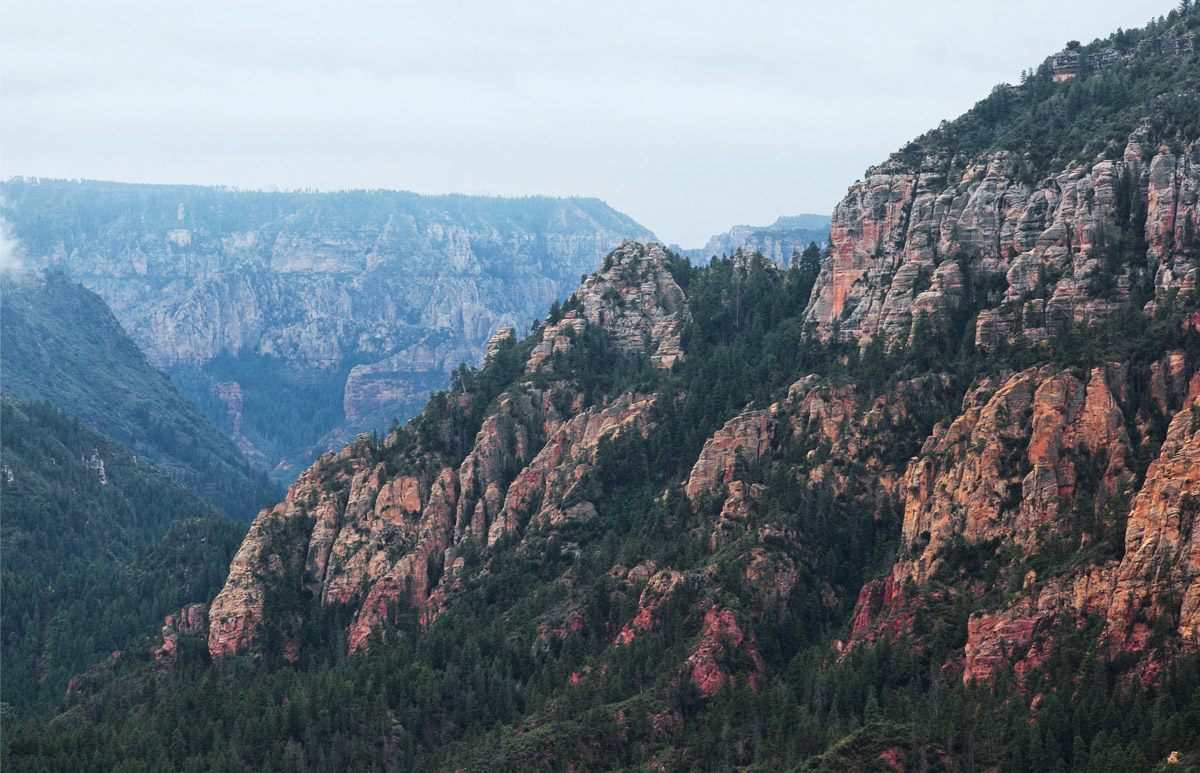
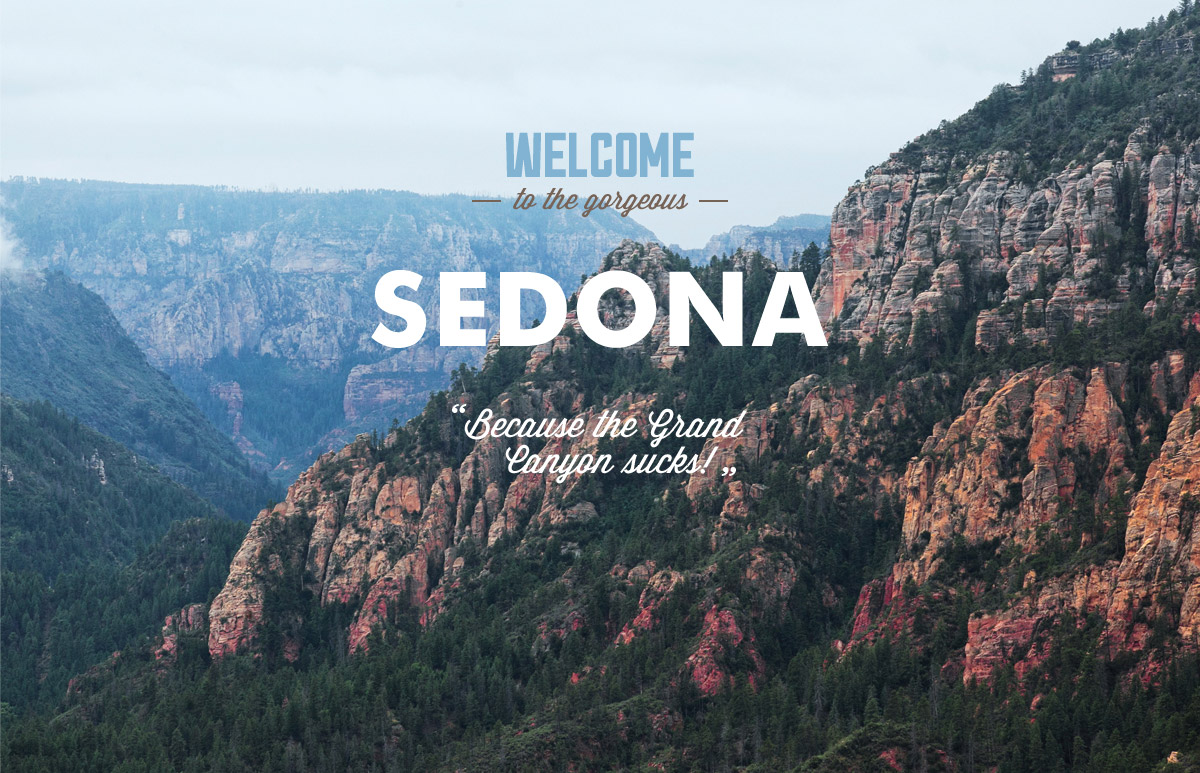
Сетки
Начал офрмлять главную

Changed region(s): [[0.3083, 0.3415, 0.7092, 0.4657], [0.4008, 0.1552, 0.5858, 0.2794], [0.37, 0.5278, 0.6167, 0.621]]

diff --git a/index.html b/index.html
@@ -11,8 +11,7 @@
     <div class="page-wrapper">
     <header class="page-header">
       <div class="logo">
-        <img src="img/logo.png" width="138" height="70"
-               alt="Логотип города Седона">
+        <img src="img/logo.png" width="138" height="70" alt="Логотип города Седона">
       </div>
       <nav class="main-navigation">
         <ul class="site-navigation">
@@ -25,9 +24,9 @@
     </header>
     <main>
       <h1 class="visually-hidden">Город Седона</h1>
-      <img src="img/intro.jpg" width="1200" height="780"
-               alt="Добро пожаловать в Седону">
-      <p class="subtitle">Седона &mdash; небольшой городок в Аризоне,<br> заслуживающий большего!</p>
+      <img src="img/background-photo.jpg" width="1200" height="780" alt="Добро пожаловать в Седону">
+      <img src="img/clipping-mask.png" width="1200" height="57">
+      <p class="subtitle">Седона &mdash; небольшой городок в Аризоне, заслуживающий большего!</p>
       <p class="reasons">Рассмотрим 5 причин, по которым Седона круче, чем Гранд Каньон!</p>
       <div class="features">
         <div class="features-image">
@@ -54,7 +53,7 @@
           </li>
         </ul>
       </section>
-      <div class="features reverse">
+      <div class="features-reverse">
         <div class="features-image">
           <p class="subtitle">Там есть мост дьявола</p>
           <p class="reasons">- №2 -</p>
@@ -62,20 +61,22 @@
         </div>
         <img class="features-image" src="img/devil-bridge.jpg" width="800" height="256" alt="Мост дьявола">
       </div>
-      <div class="features-item">
-        <p class="subtitle">Небольшая площадь</p>
-        <p class="reasons">- №3 -</p>
-        <p class="reasons">Все достопримечательности находятся очень близко</p>
-      </div>
-      <div class="features-item">
-        <p class="subtitle">Красивая дорога</p>
-        <p class="reasons">- №4- </p>
-        <p class="reasons">Ехать в Седону из Лас-Вегаса совсем не скучно!</p>
-      </div>
-      <div class="features-item">
-        <p class="subtitle">Мало туристов</p>
-        <p class="reasons">- №5 -</p>
-        <p class="reasons">Большинство едет в Гранд Каньон и толпится там</p>
+      <div class="features">
+        <div class="features-item">
+          <p class="subtitle">Небольшая площадь</p>
+          <p class="reasons">- №3 -</p>
+          <p class="reasons">Все достопримечательности находятся очень близко</p>
+        </div>
+        <div class="features-item">
+          <p class="subtitle">Красивая дорога</p>
+          <p class="reasons">- №4- </p>
+          <p class="reasons">Ехать в Седону из Лас-Вегаса совсем не скучно!</p>
+        </div>
+        <div class="features-item">
+          <p class="subtitle">Мало туристов</p>
+          <p class="reasons">- №5 -</p>
+          <p class="reasons">Большинство едет в Гранд Каньон и толпится там</p>
+        </div>
       </div>
       <section class="search-hotels">
         <p class="interest">Заинтересовались?</p>

diff --git a/css/style.css b/css/style.css
@@ -13,7 +13,19 @@ a {
   text-decoration: none;
 }
 
+.page-wrapper {
+  width: 1200px;
+  margin: 0 auto;
+}
+
+.logo {
+  position: absolute;
+  left: 50%;
+  transform: translateX(-50%);
+}
+
 .main-navigation {
+  display: flex;
   font-weight: 700;
   color: #000000;
   background-color: #ffffff;
@@ -21,6 +33,7 @@ a {
 
 .site-navigation {
   list-style: none;
+  
 }
 
 .site-navigation a {
@@ -47,8 +60,12 @@ a {
   text-align: center;
 }
 
+.features {
+  display: flex;
+}
+
 .features-image {
-  background-image: url("/img/features-image-background.png");
+  background-image: url("../img/features-image-background.png");
 }
 
 .features-image .subtitle,
@@ -57,8 +74,15 @@ a {
   color: #ffffff;
 }
 
+.features-reverse {
+  display: flex;
+  flex-direction: row-reverse;
+}
+
 .features-item {
-  background-image: url("/img/features-item-background.png");
+  background-image: url("../img/features-item-background.png");
+  flex-basis: 400px;
+  outline: 1px solid black;
 }
 
 .features-item .subtitle,
@@ -67,9 +91,35 @@ a {
 }
  
 .service-list {
+  display: flex;
   list-style: none;
+}
+
+.service-item {
+  flex-basis: 400px;
+  outline: 1px solid black;
 }
 
 .service-item h3 {
   font-size: 21px;
+}
+
+.page-footer {
+  display: flex;
+}
+
+.visit-sedona{
+  flex-basis: 400px;
+  outline: 1px solid black;
+}
+
+.footer-social {
+  display: flex;
+  flex-basis: 400px;
+  outline: 1px solid black;
+}
+
+.footer-copyright {
+  flex-basis: 400px;
+  outline: 1px solid black;
 }
